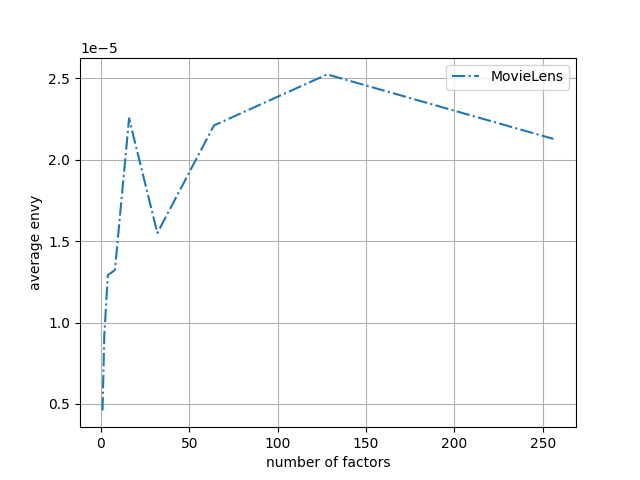
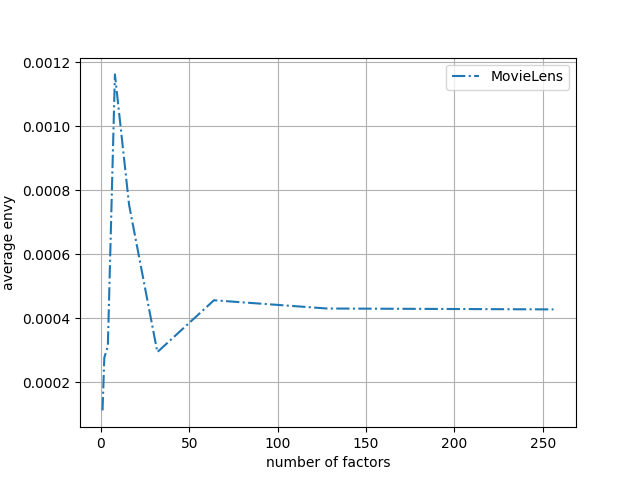
2000 filters that gave most ratings filtered in data preprocessing of MovieLens dataset

diff --git a/vN/src/user_movie.py b/vN/src/user_movie.py
@@ -23,6 +23,7 @@ from os import path
 from tqdm import tqdm
 from pandas.api.types import CategoricalDtype
 import sys
+import time
 
 # 1st party imports
 from lib import helper
@@ -55,23 +56,27 @@ if __name__ == "__main__":
     
     # Read in data files
     for var_name, file_name in data_map.items():
-        # Read data in Pandas Dataframe (mainly for manual exploration and visualization)    
         my_globals[var_name] = pd.read_csv(DATA_SRC + file_name, sep="::", header=None, names=header[var_name], encoding="latin-1", engine="python")
 
     # Get the number of ratings per movie (movie rating count)
-    user_movies["rating_count"] = np.full(len(user_movies), 1)
+    user_movies["rating_count"] = np.full(len(user_movies), 1)    
     movies_rating_count = helper.merge_duplicates(user_movies, "movieID", "rating_count")
     movies_rating_count_ranked = movies_rating_count.sort_values(by=["rating_count"], ascending=False)
 
     # Get the top 2500 number of times rated items (i.e number of cumulative rating count) 
     items = np.array(movies_rating_count_ranked["movieID"])[0:2500]
-
+    
     # Filter users that interacted with the top 2500 items 
     # '100%' data set, i.e. contains all relevant users and items
     user_item = user_movies[user_movies["movieID"].isin(items)] 
+    
+    # Get users that gave the most rating
+    users_rating_count = helper.merge_duplicates(user_item, "userID", "rating_count")
+    users_rating_count_ranked = users_rating_count.sort_values(by=["rating_count"], ascending=False)
 
-    # Keep only 2000 through random sample
-    user_item = user_item.sample(n=2000)
+    # Keep top 2000 users
+    users = np.array(users_rating_count_ranked["userID"])[0:2000]
+    user_item = user_item[user_item["userID"].isin(users)]
 
     # Since setting ratings < 3 are usually considered as negative (Wang et al. 2018), we set ratings < 3 to zero
     def transform(r):
@@ -82,13 +87,9 @@ if __name__ == "__main__":
     # Pre-process the ratings
     user_item["rating"] = user_item["rating"].map(transform)
     
-    # Get users
-    users = user_item["userID"].unique()
-    # Get items
-    items = user_item["movieID"].unique()
     shape = (len(users), len(items))
 
-    # Create indices for users and items
+    # Create indices for users and items that have the most rating
     user_cat = CategoricalDtype(categories=sorted(users), ordered=True)
     item_cat = CategoricalDtype(categories=sorted(items), ordered=True)
     user_index = user_item["userID"].astype(user_cat).cat.codes

diff --git a/vN/src/main.py b/vN/src/main.py
@@ -77,6 +77,9 @@ if __name__ == "__main__":
 
         data_set["vars"]["ground_truth"] = ground_truth
 
+        print(ground_truth.shape)
+        exit()
+
         ##########################
         #   RECOMMENDER SYSTEM: from here on we generate 144 preference estimation models one for each hyperparameter combination
         ##########################
@@ -228,17 +231,17 @@ if __name__ == "__main__":
 
     # Average envy plotted together    
     plot.plot_experiment_5_1A([data_sets[0]["experiments_results"]["5.1"]["avg_envy_user"], data_sets[1]["experiments_results"]["5.1"]["avg_envy_user"]],
-                            "average envy", "number of factors", "MovieLens", "Last.fm", "average_envy", 1)
+                            "average envy", "number of factors", "MovieLens", "Last.fm", "average_envy")
 
     # print(data_sets[1]["experiments_results"]["5.1"]["prop_envious_users"])
 
     # Proportion of envious users plotted together
     plot.plot_experiment_5_1A([data_sets[0]["experiments_results"]["5.1"]["prop_envious_users"], data_sets[1]["experiments_results"]["5.1"]["prop_envious_users"]],
-                            "prop of envious users (epsilon = 0.05)", "number of factors", "MovieLens", "Last.fm", "prop_envious_users", 2)
+                            "prop of envious users (epsilon = 0.05)", "number of factors", "MovieLens", "Last.fm", "prop_envious_users")
 
     # Average envy plotted seperately
     plot.plot_experiment_single([data_sets[0]["experiments_results"]["5.1"]["avg_envy_user"]],
-                            "average envy", "number of factors", "MovieLens", "average_envy_mv", 1)
+                            "average envy", "number of factors", "MovieLens", "average_envy_mv")
     plot.plot_experiment_single([data_sets[1]["experiments_results"]["5.1"]["avg_envy_user"]],
                             "average envy", "number of factors", "Last.fm", "average_envy_fm", 1)
 

diff --git a/vN/src/lib/plot.py b/vN/src/lib/plot.py
@@ -8,13 +8,13 @@ import matplotlib.pyplot as plt
 # 1st party imports
 import constant
 
-def plot_experiment_5_1A(data, y_label, x_label, label_1, label_2, data_name, window):
+def plot_experiment_5_1A(data, y_label, x_label, label_1, label_2, data_name, color_1="orange", color_2="tab:blue", window=1):
     line_1 = data[0]
     line_2 = data[1]
 
     plt.figure(window)
-    plt.plot(line_1.keys(), line_1.values(), label=label_1, linestyle='-.')
-    plt.plot(line_2.keys(), line_2.values(), label=label_2, linestyle='dotted', color="orange")
+    plt.plot(line_1.keys(), line_1.values(), label=label_1, linestyle="dotted", color=color_1)
+    plt.plot(line_2.keys(), line_2.values(), label=label_2, linestyle="-.", color=color_2)
 
     plt.legend()
     plt.ylabel(y_label)

diff --git a/vN/src/lib/envy.py b/vN/src/lib/envy.py
@@ -90,8 +90,9 @@ def envy_free_basic(recommendations, policies, expec_rewards, epsilon=0.05, gamm
 
     envy_free = not envious_system
     M = len(envy_users)
-    average_envy_per_user = np.sum(envy_users) / M
-    proportion_envious_users = np.count_nonzero(envy_users > epsilon) / M
+    average_envy_per_user = np.mean(envy_users)
+    # proportion_envious_users = np.count_nonzero(envy_users > epsilon) / M
+    proportion_envious_users = np.mean(envy_users > epsilon)
     return {"envy_free": envy_free, "avg_envy_user": average_envy_per_user, "prop_envious_users": proportion_envious_users}
 
 def determine_envy_freeness(recommendations, policies, rewards, expec_rewards, mode_envy="basis"):
